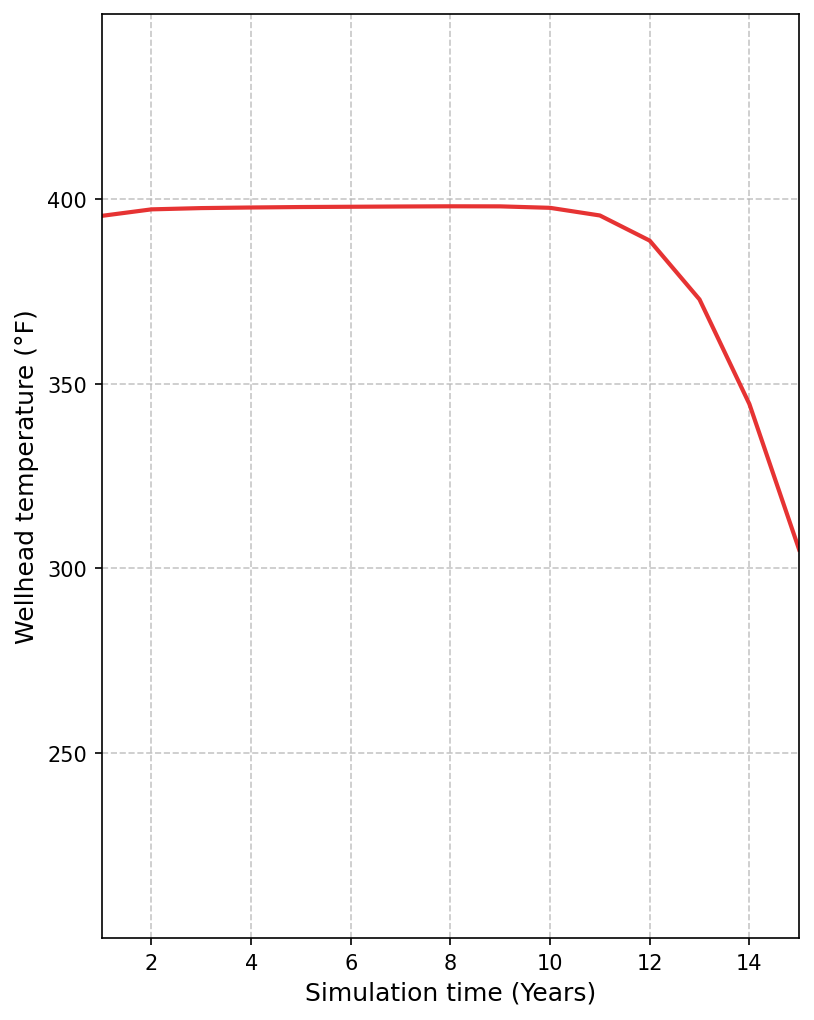
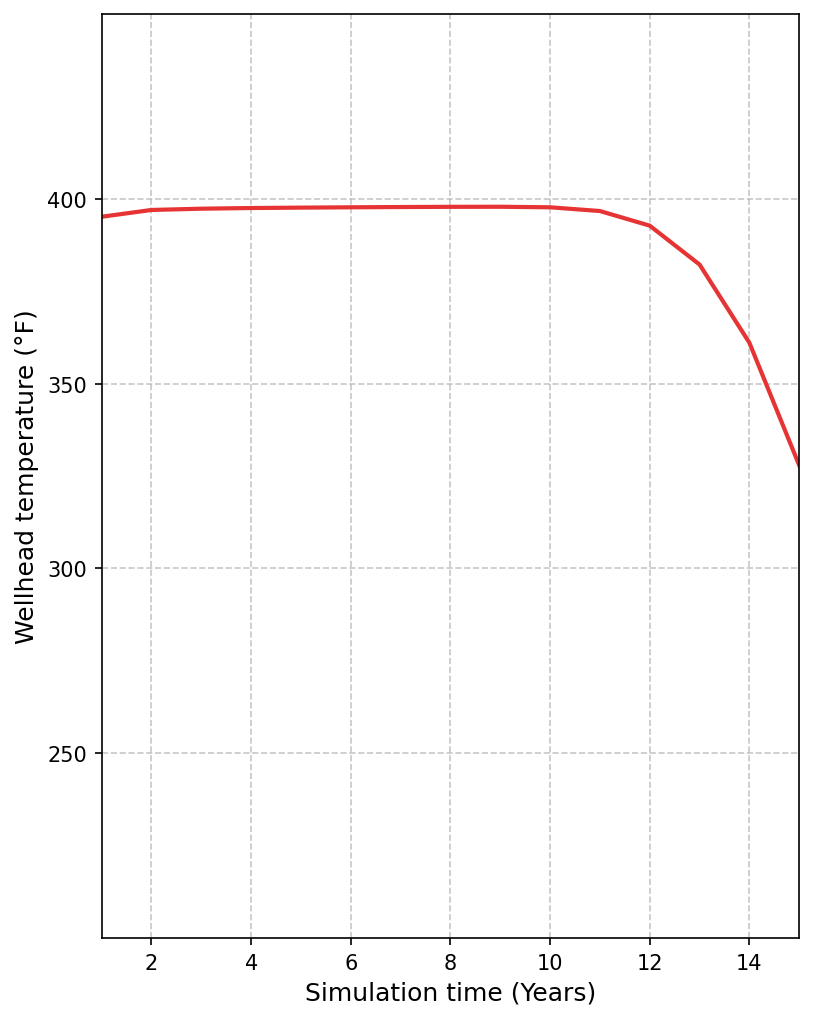
retune to avg = 512.24 MW (WIP)

Changed region(s): [[0.6757, 0.1824, 0.9828, 0.5471], [0.3993, 0.1824, 0.4607, 0.2127], [0.2764, 0.1824, 0.3071, 0.2127]]

diff --git a/src/geophires_docs/generate_fervo_project_cape_5_graphs.py b/src/geophires_docs/generate_fervo_project_cape_5_graphs.py
@@ -1,6 +1,7 @@
 from __future__ import annotations
 
 import json
+from math import ceil
 from pathlib import Path
 from typing import Any
 
@@ -53,7 +54,7 @@ def _get_full_profile(input_and_result: tuple[GeophiresInputParameters, Geophire
 
 
 def _get_redrilling_event_indexes(
-    input_and_result: tuple[GeophiresInputParameters, GeophiresXResult], threshold_degc: float = 1.0
+    input_and_result: tuple[GeophiresInputParameters, GeophiresXResult], threshold_degc: float = 0.5
 ) -> list[float]:
     """
     Detect redrilling events from a production temperature profile.
@@ -77,13 +78,21 @@ def _get_redrilling_event_indexes(
 
     redrilling_positions = []
 
-    for i in range(1, len(temperatures_celsius)):
-        temp_increase = temperatures_celsius[i] - temperatures_celsius[i - 1]
+    step_size = 6
+    for i in range(ceil(time_steps_per_year * 0.25), len(temperatures_celsius) - (step_size - 1), step_size):
+        temp_increase = temperatures_celsius[i] - temperatures_celsius[i - step_size]
         if temp_increase >= threshold_degc:
             # The temperature jump is detected at index i, but the redrilling event
-            # occurred at the previous datapoint (i-1) when the minimum was reached.
+            # occurred somewhere in the step range when the minimum was reached.
+            # Find the actual local minimum within the step range.
+            search_start = max(0, i - (2 * step_size - 1))
+            search_end = i + 1  # exclusive
+            local_min_idx = search_start + min(
+                range(search_end - search_start), key=lambda offset: temperatures_celsius[search_start + offset]
+            )
+
             # Convert to fractional year position (COD = Year 1)
-            year_position = 1 + (i - 1) / time_steps_per_year
+            year_position = 1 + local_min_idx / time_steps_per_year
             redrilling_positions.append(year_position)
 
     return redrilling_positions
@@ -207,7 +216,7 @@ def generate_production_temperature_and_drawdown_graph(
     ax.set_xlabel(_YOE_LABEL, fontsize=12)
     ax.set_ylabel('Production Temperature (°C)', fontsize=12)
     ax.set_xlim(years.min(), years.max())
-    ax.set_ylim(195, 205)
+    ax.set_ylim(200, 205)
 
     # Enable minor ticks on x-axis
     ax.minorticks_on()
@@ -235,7 +244,7 @@ def generate_production_temperature_and_drawdown_graph(
     ax.text(
         years.max() * 0.98,
         max_drawdown_temp - 0.25,
-        f'Redrilling Threshold ({max_drawdown_pct:.1f}% drawdown = {max_drawdown_temp:.1f}°C)',
+        f'Redrilling Threshold ({max_drawdown_pct:.2f}% drawdown = {max_drawdown_temp:.1f}°C)',
         ha='right',
         va='top',
         fontsize=9,
